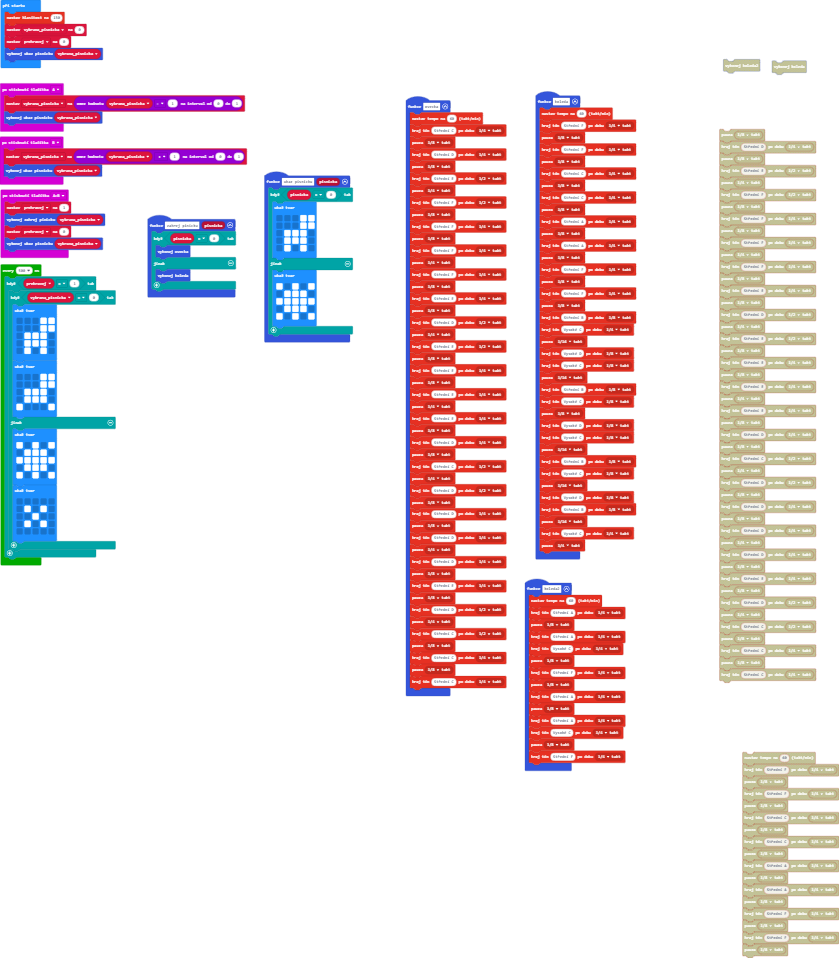
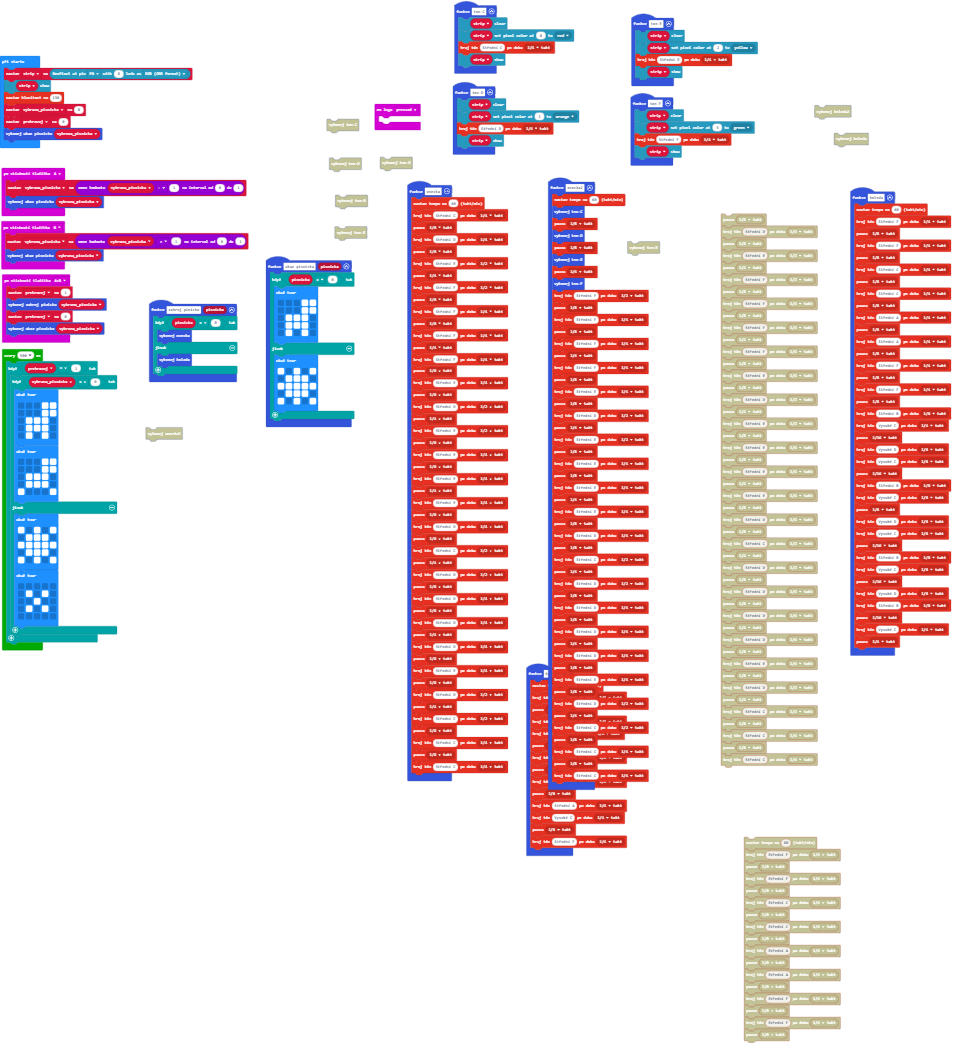
Aktualizovat pxt.json, main.blocks, main.ts

diff --git a/main.ts b/main.ts
@@ -68,6 +68,57 @@ input.onButtonPressed(Button.A, function () {
     vybrana_pisnicka = Math.constrain(vybrana_pisnicka - 1, 0, 1)
     ukaz_pisnicku(vybrana_pisnicka)
 })
+function ovecka2 () {
+    music.setTempo(60)
+    tonC()
+    music.rest(music.beat(BeatFraction.Eighth))
+    tonD()
+    music.rest(music.beat(BeatFraction.Eighth))
+    tonE()
+    music.rest(music.beat(BeatFraction.Quarter))
+    tonF()
+    music.playTone(349, music.beat(BeatFraction.Half))
+    music.rest(music.beat(BeatFraction.Eighth))
+    music.playTone(349, music.beat(BeatFraction.Quarter))
+    music.rest(music.beat(BeatFraction.Eighth))
+    music.playTone(349, music.beat(BeatFraction.Quarter))
+    music.rest(music.beat(BeatFraction.Quarter))
+    music.playTone(349, music.beat(BeatFraction.Quarter))
+    music.rest(music.beat(BeatFraction.Eighth))
+    music.playTone(330, music.beat(BeatFraction.Quarter))
+    music.rest(music.beat(BeatFraction.Eighth))
+    music.playTone(294, music.beat(BeatFraction.Half))
+    music.rest(music.beat(BeatFraction.Quarter))
+    music.playTone(330, music.beat(BeatFraction.Half))
+    music.rest(music.beat(BeatFraction.Eighth))
+    music.playTone(330, music.beat(BeatFraction.Quarter))
+    music.rest(music.beat(BeatFraction.Eighth))
+    music.playTone(330, music.beat(BeatFraction.Quarter))
+    music.rest(music.beat(BeatFraction.Quarter))
+    music.playTone(330, music.beat(BeatFraction.Quarter))
+    music.rest(music.beat(BeatFraction.Eighth))
+    music.playTone(294, music.beat(BeatFraction.Quarter))
+    music.rest(music.beat(BeatFraction.Eighth))
+    music.playTone(262, music.beat(BeatFraction.Half))
+    music.rest(music.beat(BeatFraction.Quarter))
+    music.playTone(294, music.beat(BeatFraction.Half))
+    music.rest(music.beat(BeatFraction.Eighth))
+    music.playTone(294, music.beat(BeatFraction.Quarter))
+    music.rest(music.beat(BeatFraction.Eighth))
+    music.playTone(294, music.beat(BeatFraction.Quarter))
+    music.rest(music.beat(BeatFraction.Quarter))
+    music.playTone(294, music.beat(BeatFraction.Quarter))
+    music.rest(music.beat(BeatFraction.Eighth))
+    music.playTone(330, music.beat(BeatFraction.Quarter))
+    music.rest(music.beat(BeatFraction.Eighth))
+    music.playTone(294, music.beat(BeatFraction.Half))
+    music.rest(music.beat(BeatFraction.Quarter))
+    music.playTone(262, music.beat(BeatFraction.Half))
+    music.rest(music.beat(BeatFraction.Eighth))
+    music.playTone(262, music.beat(BeatFraction.Quarter))
+    music.rest(music.beat(BeatFraction.Eighth))
+    music.playTone(262, music.beat(BeatFraction.Quarter))
+}
 function koleda () {
     music.setTempo(60)
     music.playTone(349, music.beat(BeatFraction.Quarter))
@@ -126,15 +177,42 @@ function ukaz_pisnicku (pisnicka: number) {
             `)
     }
 }
+function tonE () {
+    strip.clear()
+    strip.setPixelColor(2, neopixel.colors(NeoPixelColors.Yellow))
+    music.playTone(330, music.beat(BeatFraction.Quarter))
+    strip.show()
+}
+function tonC () {
+    strip.clear()
+    strip.setPixelColor(0, neopixel.colors(NeoPixelColors.Red))
+    music.playTone(262, music.beat(BeatFraction.Quarter))
+    strip.show()
+}
 input.onButtonPressed(Button.AB, function () {
     prehravej = 1
     zahrej_pinicku(vybrana_pisnicka)
     prehravej = 0
     ukaz_pisnicku(vybrana_pisnicka)
 })
+function tonD () {
+    strip.clear()
+    strip.setPixelColor(1, neopixel.colors(NeoPixelColors.Orange))
+    music.playTone(294, music.beat(BeatFraction.Quarter))
+    strip.show()
+}
 input.onButtonPressed(Button.B, function () {
     vybrana_pisnicka = Math.constrain(vybrana_pisnicka + 1, 0, 1)
     ukaz_pisnicku(vybrana_pisnicka)
+})
+function tonF () {
+    strip.clear()
+    strip.setPixelColor(3, neopixel.colors(NeoPixelColors.Green))
+    music.playTone(349, music.beat(BeatFraction.Quarter))
+    strip.show()
+}
+input.onLogoEvent(TouchButtonEvent.Pressed, function () {
+	
 })
 function zahrej_pinicku (pisnicka: number) {
     if (pisnicka == 0) {
@@ -145,6 +223,9 @@ function zahrej_pinicku (pisnicka: number) {
 }
 let prehravej = 0
 let vybrana_pisnicka = 0
+let strip: neopixel.Strip = null
+strip = neopixel.create(DigitalPin.P0, 8, NeoPixelMode.RGB)
+strip.show()
 music.setVolume(130)
 vybrana_pisnicka = 0
 prehravej = 0
